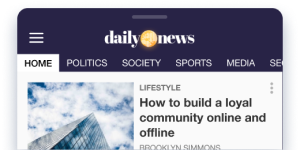
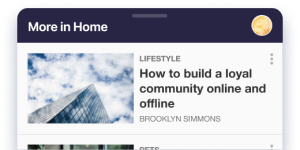
Show header lite in homepage experience

diff --git a/experiences/homepage/homepage.html b/experiences/homepage/homepage.html
@@ -85,46 +85,25 @@
 			-webkit-font-smoothing: antialiased;
 		}
 
-		.mrf-header__wrapper {
-			display: flex;
-			flex-direction: column;
+		.mrf-headerLite__wrapper {
 			background: #282346;
-		}
-
-		.mrf-header__main {
-			display: grid;
-			height: 50px;
-		}
-
-		.mrf-header__main img {
-			grid-area: 1 / 1 / 2 / 2;
-		}
-
-		.mrf-menu {
-			margin: 10px;
-		}
-
-		.mrf-logo {
-			place-self: center;
-		}
-
-		.mrf-header__navigation {
 			display: flex;
-			flex-wrap: nowrap;
-			overflow-x: auto;
+			justify-content: space-between;
+			align-items: center;
+			padding: 0 15px;
+			height: 50px;
+			box-sizing: border-box;
 		}
 
-		.mrf-section {
-			color: #fff;
-			text-transform: uppercase;
-			padding: 0 10px 2px;
-			font-size: .8em;
-			font-weight: 300;
-		}
-
-		.mrf-section.active {
-			border-bottom: 2px solid;
-			font-weight: 500;
+		.mrf-headerLite__title {
+			color: white;
+			text-align: left;
+			font-weight: 700;
+			font-size: 18px;
+			white-space: nowrap;
+			text-overflow: ellipsis;
+			overflow: hidden;
+			flex: 0 70%;
 		}
 
 		.mrf-balcon {
@@ -238,18 +217,10 @@
 </head>
 
 <body>
-	<header class="mrf-header__wrapper">
-		<div class="mrf-header__main">
-			<img class="mrf-menu" src="https://${CURRENT_HOSTNAME}/assets/experiences/burger.svg">
-			<img class="mrf-logo" height="40" src="https://${CURRENT_HOSTNAME}/assets/experiences/dailynews.png">
-		</div>
-		<div class="mrf-header__navigation">
-			<span class="mrf-section active">Home</span>
-			<span class="mrf-section">Politics</span>
-			<span class="mrf-section">Society</span>
-			<span class="mrf-section">Sports</span>
-			<span class="mrf-section">Media</span>
-			<span class="mrf-section">Library</span>
+	<header>
+		<div class="mrf-headerLite__wrapper">
+			<span class="mrf-headerLite__title">More in Home</span>
+			<img height="28" width="28" src="https://${CURRENT_HOSTNAME}/assets/experiences/dailynews-icon.png">
 		</div>
 	</header>
 	<div>
